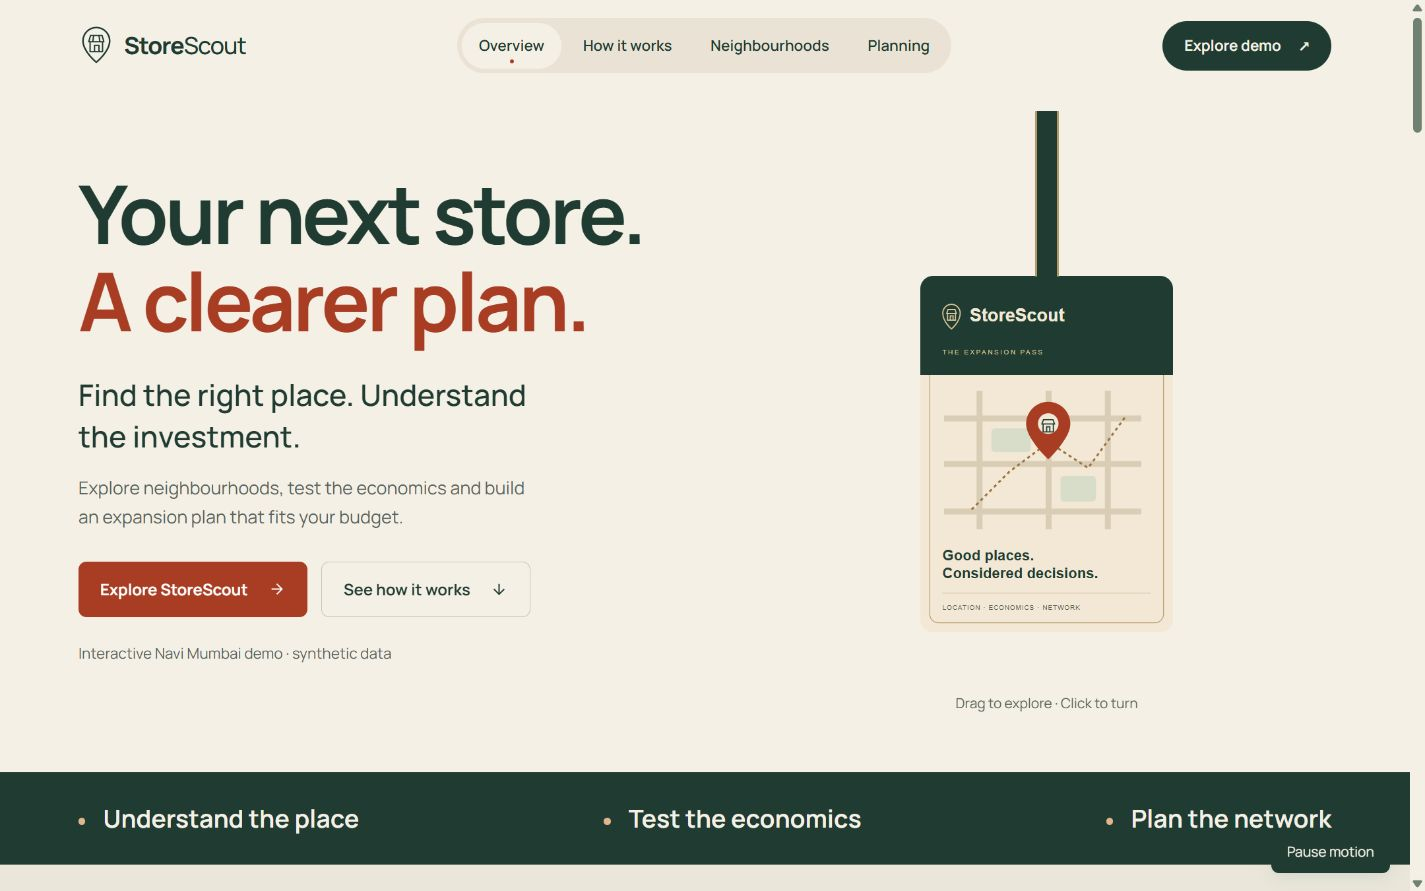
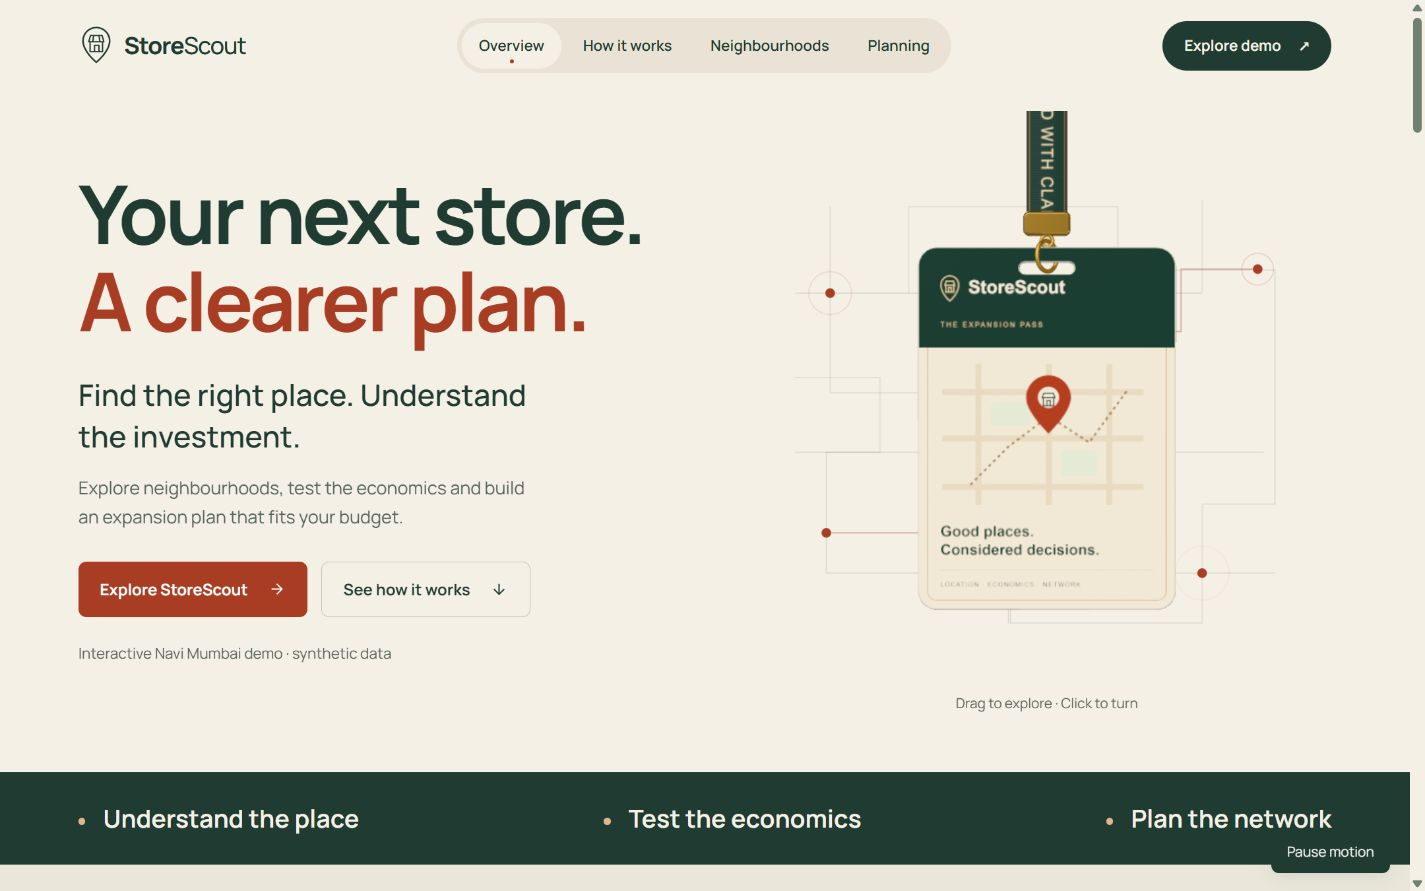
Add cartographic hero motion and scroll choreography

Changed region(s): [[0.6175, 0.1212, 0.8337, 0.697]]

diff --git a/frontend/src/features/landing/LandingMotion.tsx b/frontend/src/features/landing/LandingMotion.tsx
@@ -1,0 +1,134 @@
+'use client';
+
+import { useEffect, useRef, type ReactNode, type RefObject } from 'react';
+import { motion, useMotionValue, useScroll, useSpring, useTransform } from 'motion/react';
+
+const easeOut = 'cubic-bezier(0.23, 1, 0.32, 1)';
+const pointerSpring = { mass: 1, stiffness: 100, damping: 10 };
+
+/** Decorative cartography only. It does not represent locations or model output. */
+export function ExpansionField({ children, paused }: { children: ReactNode; paused: boolean }) {
+  const stage = useRef<HTMLDivElement>(null);
+  const finePointer = useRef(false);
+  const mouseX = useMotionValue(0);
+  const mouseY = useMotionValue(0);
+  const x = useSpring(mouseX, pointerSpring);
+  const y = useSpring(mouseY, pointerSpring);
+  const { scrollYProgress } = useScroll({ target: stage, offset: ['start start', 'end start'] });
+
+  const passTransform = useTransform<number, string>([x, y, scrollYProgress], ([px, py, progress]) =>
+    `perspective(1100px) translate3d(${px * 10}px,${py * 7 + progress * 32}px,0) rotateX(${-py * 3 - progress * 4}deg) rotateY(${px * 4}deg) rotateZ(${-progress * 3}deg) scale(${1 - progress * .04})`,
+  );
+  const fieldTransform = useTransform<number, string>([x, y, scrollYProgress], ([px, py, progress]) =>
+    `translate3d(${-px * 18}px,${-py * 12 - progress * 24}px,0) rotate(${-progress * 8}deg) scale(${1 + progress * .08})`,
+  );
+
+  useEffect(() => {
+    const query = matchMedia('(hover: hover) and (pointer: fine)');
+    const update = () => {
+      finePointer.current = query.matches;
+      mouseX.set(0);
+      mouseY.set(0);
+    };
+    update();
+    query.addEventListener('change', update);
+    return () => query.removeEventListener('change', update);
+  }, [mouseX, mouseY]);
+
+  useEffect(() => {
+    if (paused) {
+      mouseX.jump(0);
+      mouseY.jump(0);
+      x.jump(0);
+      y.jump(0);
+    }
+  }, [paused, mouseX, mouseY, x, y]);
+
+  return (
+    <div
+      ref={stage}
+      className="expansion-stage"
+      data-field-paused={paused}
+      onPointerMove={event => {
+        if (paused || !finePointer.current || event.pointerType !== 'mouse') return;
+        const bounds = event.currentTarget.getBoundingClientRect();
+        mouseX.set(Math.max(-1, Math.min(1, (event.clientX - bounds.left) / bounds.width * 2 - 1)));
+        mouseY.set(Math.max(-1, Math.min(1, (event.clientY - bounds.top) / bounds.height * 2 - 1)));
+      }}
+      onPointerLeave={() => { mouseX.set(0); mouseY.set(0); }}
+    >
+      <motion.div className="expansion-field" style={{ transform: paused ? 'none' : fieldTransform }} aria-hidden="true">
+        <svg viewBox="0 0 640 640" fill="none" className="expansion-cartography">
+          <g className="expansion-streets" strokeLinecap="round" strokeLinejoin="round">
+            <path d="M58 190H176V100H394V166H558V410H482V534H282V482H90V356H146V278H58"/>
+            <path d="M94 100V294H280V534M58 356H546M176 190H482V94M394 166V482H558"/>
+            <path d="M90 440H210V230H460V165H540" className="expansion-route"/>
+          </g>
+          <g className="expansion-pin expansion-pin-a"><circle cx="94" cy="190" r="17" className="expansion-radius"/><circle cx="94" cy="190" r="5"/></g>
+          <g className="expansion-pin expansion-pin-b"><circle cx="540" cy="165" r="17" className="expansion-radius"/><circle cx="540" cy="165" r="5"/></g>
+          <g className="expansion-pin expansion-pin-c"><circle cx="90" cy="440" r="17" className="expansion-radius"/><circle cx="90" cy="440" r="5"/></g>
+          <g className="expansion-pin expansion-pin-d"><circle cx="482" cy="482" r="17" className="expansion-radius"/><circle cx="482" cy="482" r="5"/></g>
+          <circle r="5" className="expansion-signal"/>
+        </svg>
+      </motion.div>
+      <motion.div className="expansion-pass" style={{ transform: paused ? 'none' : passTransform }}>
+        {children}
+      </motion.div>
+    </div>
+  );
+}
+
+/** Finite, once-per-visit reveals. Content is visible without JS or animation support. */
+export function useLandingChoreography(root: RefObject<HTMLDivElement | null>, paused: boolean) {
+  const played = useRef(new WeakSet<Element>());
+
+  useEffect(() => {
+    const surface = root.current;
+    if (!surface || paused || !Element.prototype.animate || !window.IntersectionObserver) return;
+    const animations = new Set<Animation>();
+    const play = (element: Element, frames: Keyframe[], duration: number, delay = 0) => {
+      const animation = element.animate(frames, { duration, delay, easing: easeOut, fill: 'none' });
+      animations.add(animation);
+      animation.onfinish = () => animations.delete(animation);
+    };
+    const observer = new IntersectionObserver(entries => {
+      for (const entry of entries) {
+        if (!entry.isIntersecting || played.current.has(entry.target)) continue;
+        played.current.add(entry.target);
+        observer.unobserve(entry.target);
+        if (entry.target.matches('.editorial-visual')) {
+          const picture = entry.target.querySelector('img');
+          if (picture) play(picture, [
+            { transform: 'scale(1.035)', clipPath: 'inset(7% 3% 7% 3% round 16px)' },
+            { transform: 'scale(1)', clipPath: 'inset(0% 0% 0% 0% round 16px)' },
+          ], 1000);
+        } else if (entry.target.matches('.journey-steps, .evidence-pillars-grid')) {
+          Array.from(entry.target.children).forEach((item, index) => play(item, [
+            { opacity: .6, transform: 'translate3d(0,24px,0)' },
+            { opacity: 1, transform: 'translate3d(0,0,0)' },
+          ], 650, index * 100));
+        } else {
+          play(entry.target, [
+            { opacity: .65, transform: 'translate3d(0,22px,0)' },
+            { opacity: 1, transform: 'translate3d(0,0,0)' },
+          ], 700);
+        }
+      }
+    }, { threshold: .15 });
+    surface.querySelectorAll('.section-heading-row h2, .section-header-block h2, .journey-steps, .editorial-visual, .evidence-pillars-grid').forEach(element => {
+      if (!played.current.has(element)) observer.observe(element);
+    });
+    const visibility = () => {
+      for (const animation of animations) {
+        if (document.hidden) animation.pause();
+        else animation.play();
+      }
+    };
+    document.addEventListener('visibilitychange', visibility);
+    return () => {
+      observer.disconnect();
+      document.removeEventListener('visibilitychange', visibility);
+      for (const animation of animations) animation.cancel();
+    };
+  }, [root, paused]);
+}

diff --git a/frontend/src/app/(marketing)/landing-motion.css b/frontend/src/app/(marketing)/landing-motion.css
@@ -1,0 +1,78 @@
+/* An additive motion layer. Layout, typography, palette and content stay in landing.css. */
+.landing {
+  .hero-title { animation: none; }
+  .hero-line { display: block; overflow: clip; padding-bottom: .1em; margin-bottom: -.1em; perspective: 900px; }
+  .hero-title em.hero-line { display: block; }
+  .hero-line > span { display: block; transform-origin: 50% 100%; animation: expansion-headline 1000ms var(--ease-out) both; }
+  .hero-line:nth-child(2) > span { animation-delay: 110ms; }
+  .hero-lede { animation-duration: 850ms; animation-delay: 220ms; }
+  .hero-actions { animation-duration: 850ms; animation-delay: 300ms; }
+
+  .expansion-stage { position: relative; width: 100%; height: 100%; isolation: isolate; }
+  .expansion-pass { position: absolute; inset: 0; transform-origin: 50% 10%; }
+  .expansion-field { position: absolute; inset: 0; pointer-events: none; transform-origin: 50% 60%; }
+  .expansion-cartography { position: absolute; inset: 0; width: 100%; height: 100%; overflow: visible; }
+  .expansion-streets { stroke: #203c321c; stroke-width: 1.3; animation: expansion-unfold 1400ms 180ms var(--ease-out) both; }
+  .expansion-route { stroke: #a83d2459; stroke-width: 1.5; }
+  .expansion-pin { fill: var(--purple); transform-box: fill-box; transform-origin: center; animation: expansion-pin-arrive 850ms var(--ease-out) both; }
+  .expansion-pin-a { animation-delay: 480ms; }
+  .expansion-pin-b { animation-delay: 680ms; }
+  .expansion-pin-c { animation-delay: 880ms; }
+  .expansion-pin-d { animation-delay: 1080ms; }
+  .expansion-radius { fill: none; stroke: #a83d2466; stroke-width: 1; transform-box: fill-box; transform-origin: center; animation: expansion-catchment 4s 1500ms linear infinite; }
+  .expansion-pin-b .expansion-radius { animation-delay: 2500ms; }
+  .expansion-pin-c .expansion-radius { animation-delay: 3500ms; }
+  .expansion-pin-d .expansion-radius { animation-delay: 4500ms; }
+  .expansion-signal { fill: var(--purple); stroke: var(--paper); stroke-width: 3; opacity: 0; animation: expansion-route-travel 10s 1500ms linear infinite; }
+  .editorial-visual { overflow: clip; }
+  .button { position: relative; overflow: hidden; isolation: isolate; }
+  .button::after { content: ''; position: absolute; pointer-events: none; top: -50%; left: -35%; width: 16%; height: 200%; background: #ffffff26; transform: translateX(0) rotate(-20deg); transition: transform 650ms var(--ease-out); }
+  .button svg, .text-link svg, .button-secondary svg { transition: transform 200ms var(--ease-out); }
+
+  [data-motion-paused=true] .hero-line > span { animation: none; }
+  [data-motion-paused=true] .button::after { display: none; }
+  [data-motion-paused=true] :is(.button,.text-link,.button-secondary) svg { transition: none; transform: none; }
+  [data-field-paused=true] .expansion-streets,
+  [data-field-paused=true] .expansion-pin { animation: none; }
+  [data-field-paused=true] .expansion-radius,
+  [data-field-paused=true] .expansion-signal { animation-play-state: paused; }
+  @media (hover:hover) and (pointer:fine) {
+    .button:hover::after { transform: translateX(1100%) rotate(-20deg); }
+    .button:hover svg, .text-link:hover svg { transform: translateX(4px); }
+  }
+  @media (max-width:800px) {
+    .expansion-field { opacity: .65; inset: -6% 0; }
+    .expansion-signal { animation-duration: 12s; }
+  }
+}
+@keyframes expansion-headline {
+  from { transform: translate3d(0,65%,0) rotateX(-16deg); opacity: .7; }
+  to { transform: translate3d(0,0,0) rotateX(0); opacity: 1; }
+}
+@keyframes expansion-unfold {
+  from { clip-path: inset(0 100% 0 0); opacity: .4; }
+  to { clip-path: inset(0 0% 0 0); opacity: 1; }
+}
+@keyframes expansion-pin-arrive {
+  from { opacity: 0; transform: translateY(12px) scale(.9); }
+  to { opacity: 1; transform: translateY(0) scale(1); }
+}
+@keyframes expansion-catchment {
+  0% { transform: scale(.65); opacity: 0; }
+  15% { opacity: .6; }
+  85%,100% { transform: scale(1.8); opacity: 0; }
+}
+@keyframes expansion-route-travel {
+  0% { transform: translate(90px,440px); opacity: 0; }
+  8% { opacity: 1; }
+  20% { transform: translate(210px,440px); }
+  48% { transform: translate(210px,230px); }
+  80% { transform: translate(460px,230px); }
+  90% { transform: translate(460px,165px); opacity: 1; }
+  100% { transform: translate(540px,165px); opacity: 0; }
+}
+@media (prefers-reduced-motion:reduce) {
+  .landing .expansion-field { display: none; }
+  .landing .expansion-pass { transform: none !important; }
+  .landing .hero-line > span { animation: none; }
+}

diff --git a/frontend/src/features/landing/Landing.tsx b/frontend/src/features/landing/Landing.tsx
@@ -1,6 +1,6 @@
 'use client';
 import Link from 'next/link';
-import { useEffect, useState } from 'react';
+import { useEffect, useRef, useState } from 'react';
 import { motion, useReducedMotion, useScroll } from 'motion/react';
 import BrandMark from '@/components/BrandMark';
 import HeroLanyard from './HeroLanyard';
@@ -9,11 +9,13 @@ import RetailScene, { Reveal } from './RetailScene';
 import DaypartMap from './DaypartMap';
 import FailFastCards from './FailFastCards';
 import FinancialPlanner from './FinancialPlanner';
+import { ExpansionField, useLandingChoreography } from './LandingMotion';
 const navItems=[{label:'Overview',href:'#hero'},{label:'How it works',href:'#how-it-works'},{label:'Neighbourhoods',href:'#daypart-dna'},{label:'Planning',href:'#financial-planning'}];
 function Arrow({ down=false }:{down?:boolean}) {
  return <svg aria-hidden="true" width="18" height="18" viewBox="0 0 24 24" fill="none" style={down?{transform:'rotate(90deg)'}:undefined}><path d="M5 12h14M12 5l7 7-7 7" stroke="currentColor" strokeWidth="1.8"/></svg>;
 }
 export default function Landing() {
+ const surface=useRef<HTMLDivElement>(null);
  const reduced=useReducedMotion();
  const [flat,setFlat]=useState(false), [ready,setReady]=useState(false), [paused,setPaused]=useState(false), [visible,setVisible]=useState(true);
  const {scrollYProgress}=useScroll();
@@ -31,13 +33,14 @@ export default function Landing() {
   const frame=requestAnimationFrame(()=>setReady(true));return()=>cancelAnimationFrame(frame);
  },[]);
  const still=paused||!!reduced||flat;
- return <div className="landing-experience" data-motion-paused={still}>
+ useLandingChoreography(surface, still||!ready);
+ return <div ref={surface} className="landing-experience" data-motion-paused={still}>
   {!still&&<motion.div className="reading-progress" style={{scaleX:paused?0:scrollYProgress}} aria-hidden="true"/>}
   <PillNav logo={<BrandMark/>} logoAlt="StoreScout" items={navItems} activeHref="#hero" itemStyle="pill" hoverEffect="fill" indicator="dot"/>
   <main id="landing-content">
    <section id="hero" className="hero-section"><div className="hero-grid">
-    <div className="hero-copy"><h1 className="hero-title">Your next store.<br/><em>A clearer plan.</em></h1><p className="hero-lede">Find the right place. Understand the investment.</p><p className="hero-body">Explore neighbourhoods, test the economics and build an expansion plan that fits your budget.</p><div className="hero-actions"><Link className="button" href="/app/">Explore StoreScout <Arrow/></Link><a className="button-secondary" href="#how-it-works">See how it works <Arrow down/></a></div><p className="demo-disclosure">Interactive Navi Mumbai demo · synthetic data</p></div>
-    <div className="hero-3d-wrapper" aria-hidden="true"><HeroLanyard still={!ready||flat||!!reduced} paused={paused||!visible}/></div>
+    <div className="hero-copy"><h1 className="hero-title"><span className="hero-line"><span>Your next store.</span></span><em className="hero-line"><span>A clearer plan.</span></em></h1><p className="hero-lede">Find the right place. Understand the investment.</p><p className="hero-body">Explore neighbourhoods, test the economics and build an expansion plan that fits your budget.</p><div className="hero-actions"><Link className="button" href="/app/">Explore StoreScout <Arrow/></Link><a className="button-secondary" href="#how-it-works">See how it works <Arrow down/></a></div><p className="demo-disclosure">Interactive Navi Mumbai demo · synthetic data</p></div>
+    <div className="hero-3d-wrapper" aria-hidden="true"><ExpansionField paused={still||!visible||!ready}><HeroLanyard still={!ready||flat||!!reduced} paused={paused||!visible}/></ExpansionField></div>
    </div></section>
    <div className="retail-strip"><span>Understand the place</span><span>Test the economics</span><span>Plan the network</span></div>
    <section id="how-it-works" className="section-wrapper tint-bg">

diff --git a/frontend/src/app/(marketing)/layout.tsx b/frontend/src/app/(marketing)/layout.tsx
@@ -1,5 +1,6 @@
 import type { ReactNode } from 'react';
 import './landing.css';
+import './landing-motion.css';
 export default function Layout({ children }: { children: ReactNode }) {
   return <div className="landing"><a className="skip-link" href="#landing-content">Skip to content</a>{children}</div>;
 }

diff --git a/frontend/docs/LANDING_MOTION.md b/frontend/docs/LANDING_MOTION.md
@@ -1,0 +1,15 @@
+# Landing motion
+
+An additive motion pass over the existing retail identity. Copy, colours, typography, section order, routes, charts and analytical behaviour are preserved.
+
+- **Expansion field:** decorative cartographic paths unfold behind the existing physical pass. A travelling signal and four catchment pulses connect the visual to retail expansion. These shapes are not geographic evidence or model results; the entire scene remains hidden from assistive technology.
+- **Depth:** fine mouse pointers move the pass and map in opposing layers through Motion values and a spring (mass 1, stiffness 100, damping 10). Scrolling adds a small depth/rotation change. Existing drag and flip controls remain available. Touch input keeps normal scrolling and the pass's existing gesture behaviour.
+- **Opening:** each existing headline line rises through a mask, with the lede and actions following. Text and line positions settle into the original layout.
+- **Story:** native Web Animations reveal headings, stagger the three workflow steps and evidence columns, and uncover the two retail illustrations. They run once per visit, use the existing ease-out curve and never conceal content in the underlying document.
+- **Actions:** primary buttons gain a light sweep and a small arrow response on fine-pointer hover.
+
+Continuous CSS work uses transforms and opacity. Finite image/path entrances also use clip-path. Pointer/scroll values do not set React state per frame or animate layout dimensions. No dependency was added. Desktop/phone browser review is not a claim of measured frame rate on physical phones.
+
+Pause cancels finite Web Animations, stops the decorative field and existing scenes, removes entrance transforms and leaves all content readable. Hidden tabs pause active finite animations. The hero's field and pass stop when it leaves view. OS reduced motion removes the field and positional choreography; `?flat` and data-saving mode also retain a static presentation. All pointer handlers, observers, media-query listeners and animation instances clean up when their components unmount.
+
+Implementation: `features/landing/LandingMotion.tsx` and `app/(marketing)/landing-motion.css`. The workspace and backend are outside this change.
